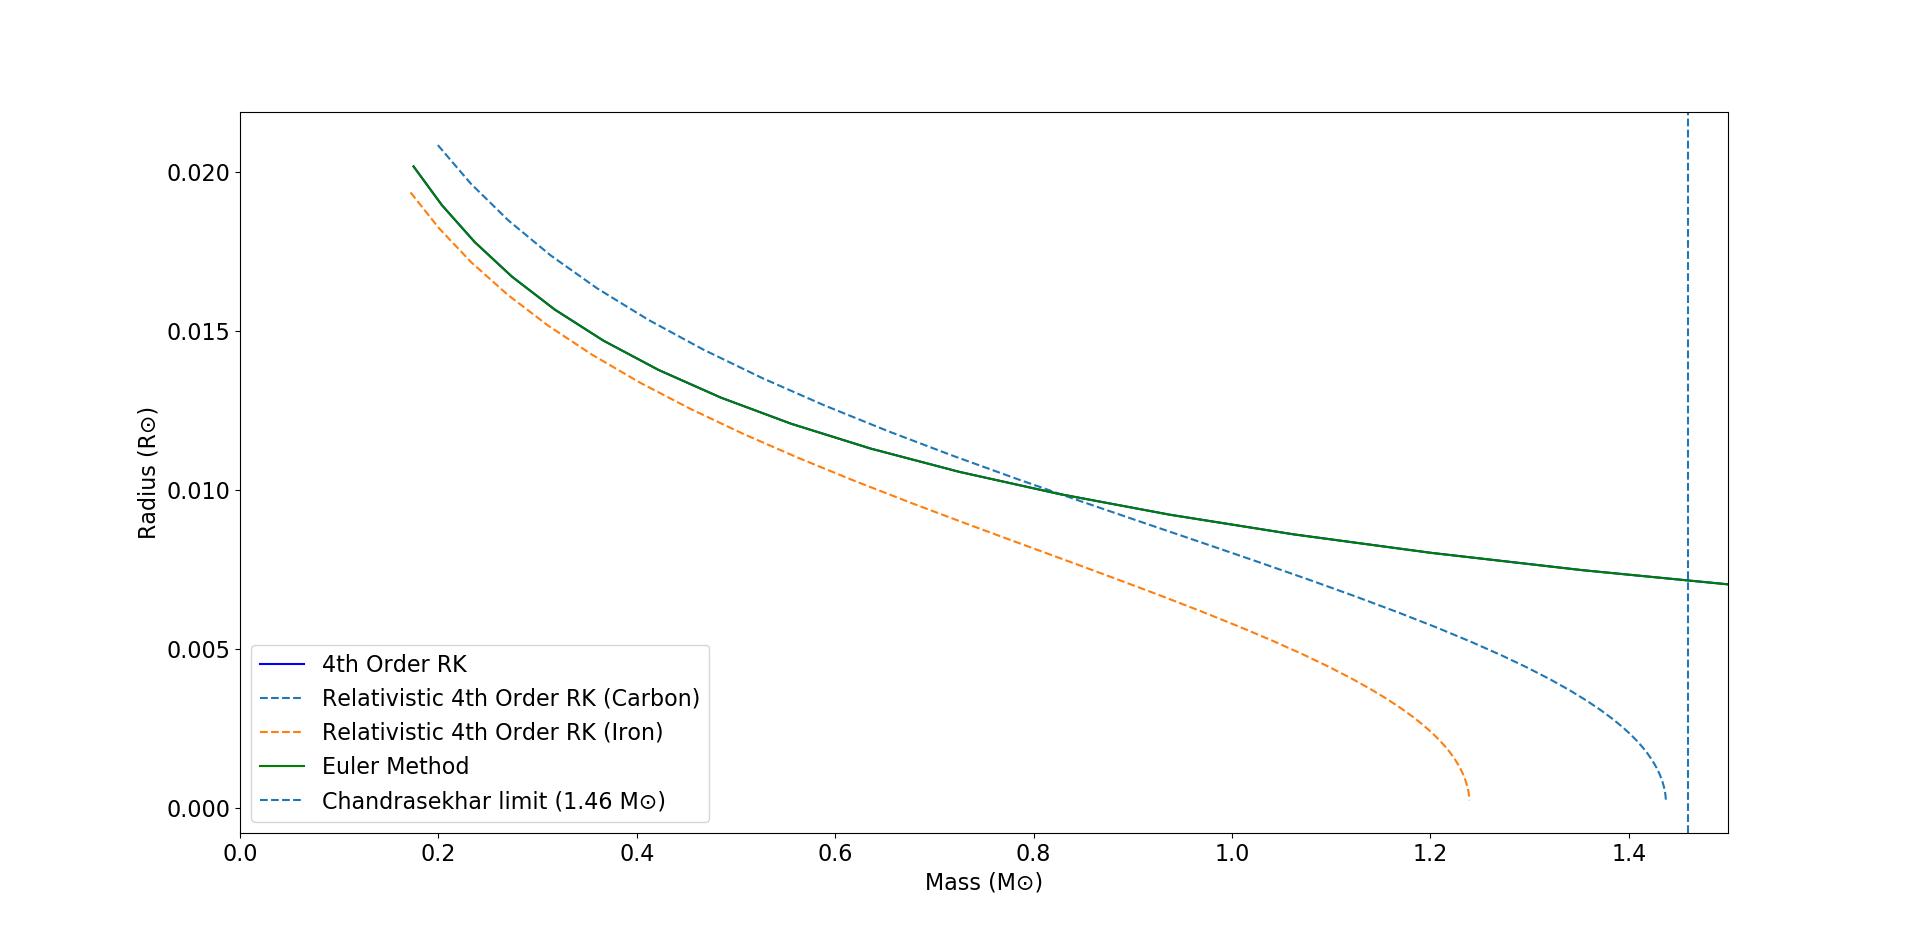
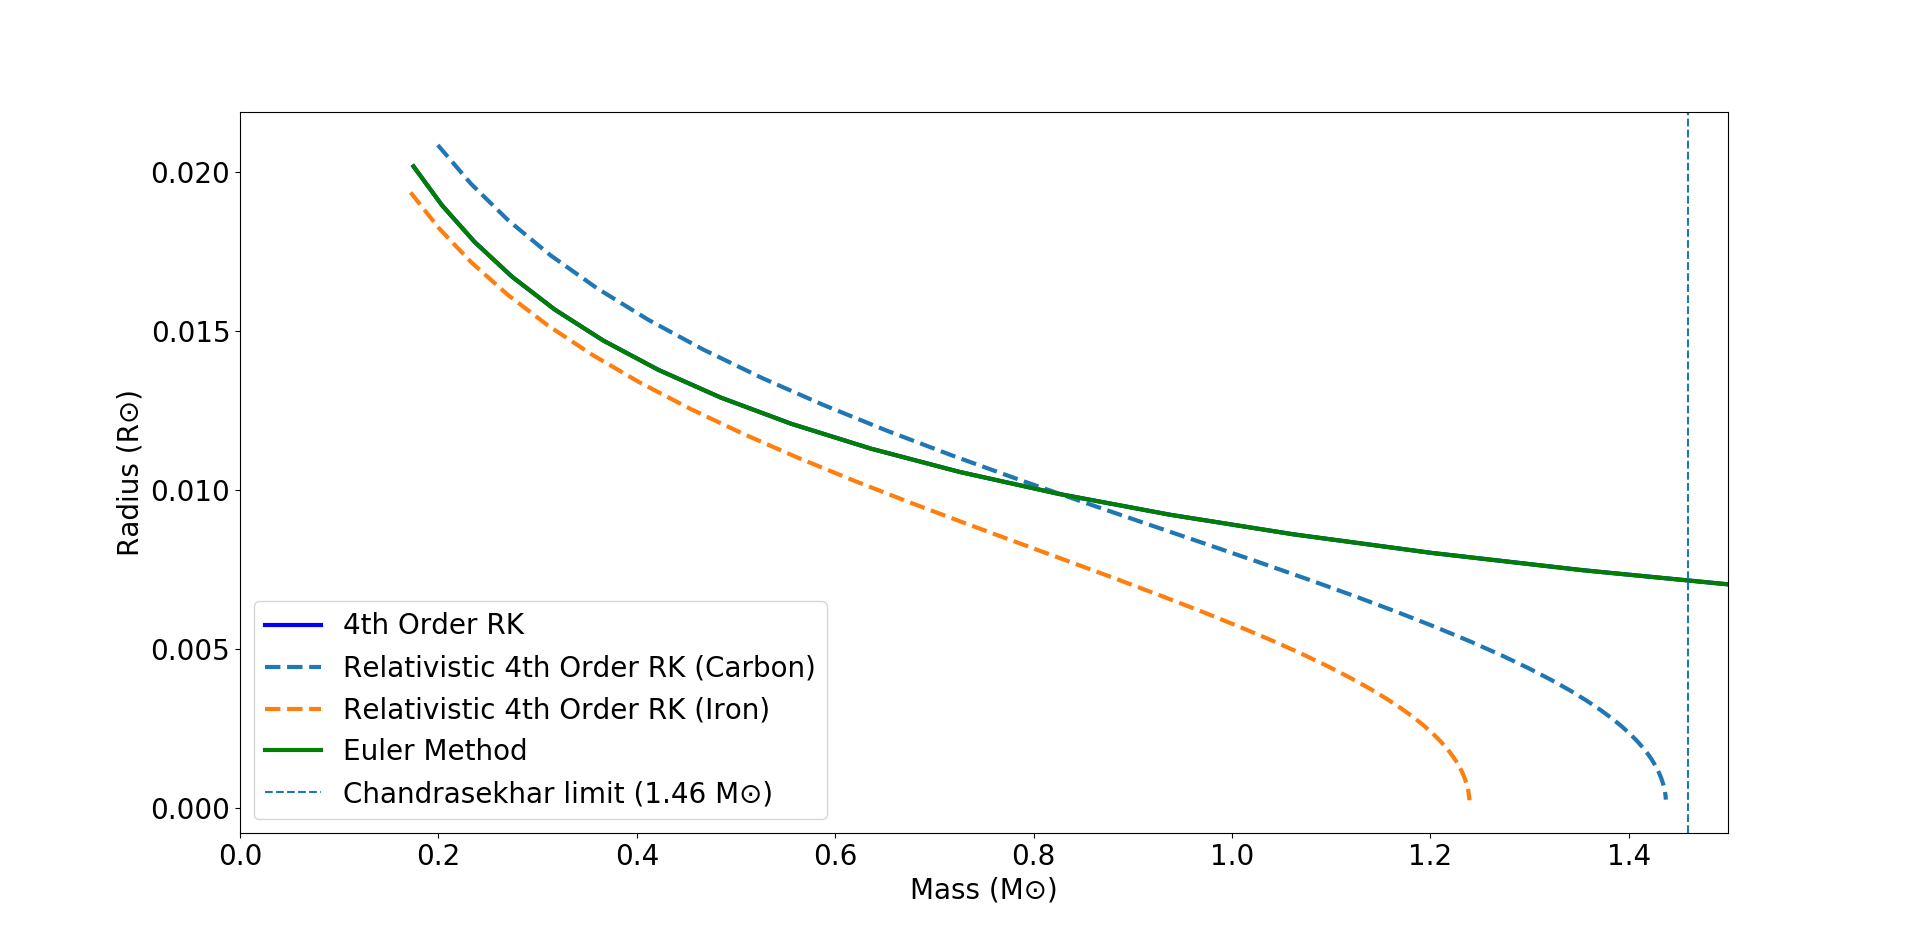
changed plots

diff --git a/final.py b/final.py
@@ -201,13 +201,13 @@ radius_solar_AB = np.array(radius_AB)*R_0/R_sun                   #converts dime
 mass_solar_AB = np.array(mass_AB)*M_0/M_sun                       #converts dimensionless mass in terms of solar mass
 """
 
-plt.rcParams.update({'font.size': 16})
+plt.rcParams.update({'font.size': 20})
 #Plots mass vs radius-------------------------------------------------------------------------------------------------------------------
-plt.plot(mass_solar_RK4,radius_solar_RK4, 'b', label="4th Order RK")     #plots the RK4 function
-plt.plot(mass_solar_Rel_RK4,radius_solar_Rel_RK4,linestyle='--', label="Relativistic 4th Order RK (Carbon)")
-plt.plot(mass_solar_Rel_fe_RK4,radius_solar_Rel_fe_RK4,linestyle='--', label="Relativistic 4th Order RK (Iron)")     #plots the RK4 function
+plt.plot(mass_solar_RK4,radius_solar_RK4, 'b',linewidth=3, label="4th Order RK")     #plots the RK4 function
+plt.plot(mass_solar_Rel_RK4,radius_solar_Rel_RK4,linestyle='--',linewidth=3 ,label="Relativistic 4th Order RK (Carbon)")
+plt.plot(mass_solar_Rel_fe_RK4,radius_solar_Rel_fe_RK4,linestyle='--',linewidth=3, label="Relativistic 4th Order RK (Iron)")     #plots the RK4 function
 #plt.plot(mass_solar_AB,radius_solar_AB, 'b', label="4th Order Adam-Bashford - Tau = {}".format(tau))
-plt.plot(mass_solar_Eu,radius_solar_Eu, 'g', label="Euler Method")
+plt.plot(mass_solar_Eu,radius_solar_Eu, 'g',linewidth=3, label="Euler Method")
 plt.axvline(x=M_limit ,linestyle='--',label="Chandrasekhar limit (1.46 M⊙)")
 plt.legend()
 plt.ylabel('Radius (R⊙)')
@@ -222,12 +222,12 @@ star_names = np.genfromtxt('wd_data.txt', dtype=str, usecols=(0)).tolist()      
 
 plt.plot(stars[:,0],stars[:,2], '*', label="Star Data")
 plt.errorbar(x=stars[:,0],y=stars[:,2],yerr=stars[:,3],xerr=stars[:,1], fmt=' ',color='b', elinewidth=0.5)
-for i in range(len(star_names)): plt.annotate(star_names[i],xy=(stars[i,0],stars[i,2]))     #adds star names to star data
-plt.plot(mass_solar_RK4,radius_solar_RK4, 'g', label="4th Order RK")
-plt.plot(mass_solar_Rel_RK4,radius_solar_Rel_RK4,linestyle='--', label="Relativistic 4th Order RK (Carbon)")     #plots the RK4 function
-plt.plot(mass_solar_Rel_fe_RK4,radius_solar_Rel_fe_RK4,linestyle='--', label="Relativistic 4th Order RK (Iron)")     #plots the RK4 function
+for i in range(len(star_names)): plt.annotate(star_names[i],xy=(stars[i,0],stars[i,2]),fontsize=12)     #adds star names to star data
+plt.plot(mass_solar_RK4,radius_solar_RK4, 'g',linewidth=3, label="4th Order RK")
+plt.plot(mass_solar_Rel_RK4,radius_solar_Rel_RK4,linestyle='--',linewidth=3, label="Relativistic 4th Order RK (Carbon)")     #plots the RK4 function
+plt.plot(mass_solar_Rel_fe_RK4,radius_solar_Rel_fe_RK4,linestyle='--',linewidth=3, label="Relativistic 4th Order RK (Iron)")     #plots the RK4 function
 
-plt.plot(mass_solar_Eu,radius_solar_Eu, 'b', label="Euler Method")
+plt.plot(mass_solar_Eu,radius_solar_Eu, 'b',linewidth=3, label="Euler Method")
 plt.axvline(x=M_limit ,linestyle='--',label="Chandrasekhar limit (1.46 M⊙)")
 plt.legend()
 plt.ylabel('Radius (R⊙)')
